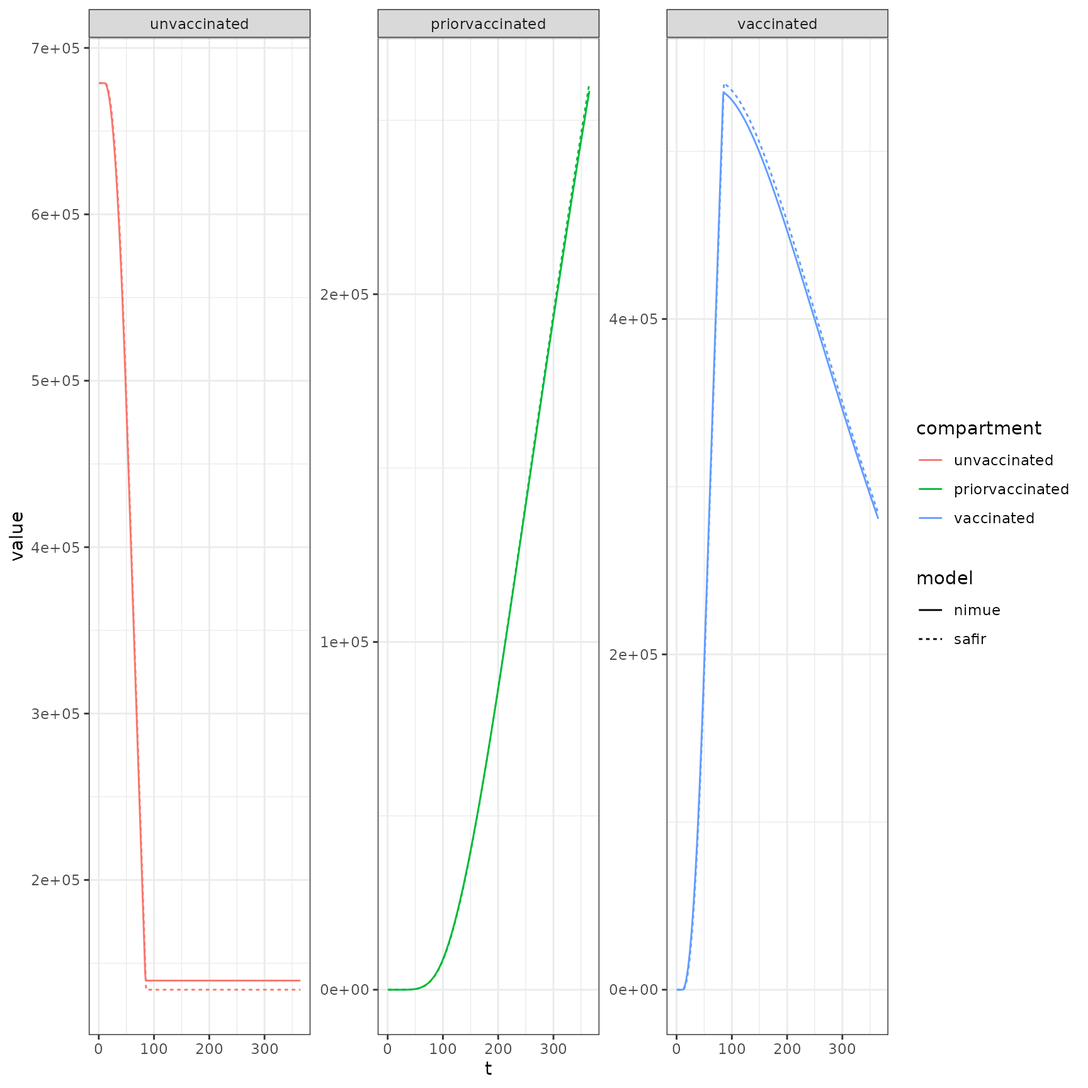
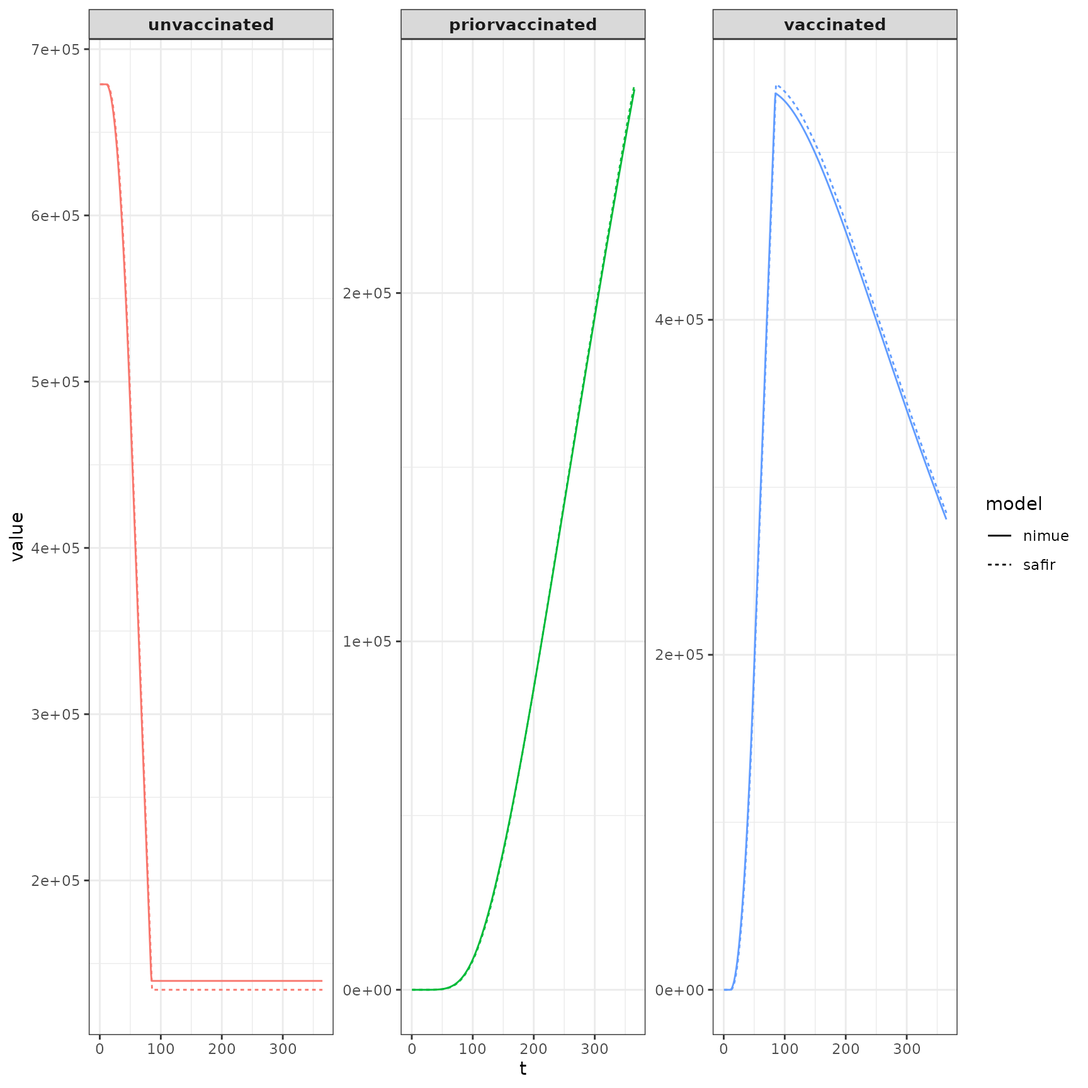
Built site for safir: 0.1.0@

diff --git a/articles/compare_nimue.html b/articles/compare_nimue.html
@@ -91,6 +91,9 @@
 
     
     
+<div id="setup" class="section level2">
+<h2 class="hasAnchor">
+<a href="#setup" class="anchor"></a>Setup</h2>
 <p>Let’s compare <strong>safir</strong> to <strong>nimue</strong>. Set up our parameters for running. We use a time step of 0.1 days.</p>
 <p>Do a run of <strong>nimue</strong> with increasing vaccination.</p>
 <div class="sourceCode" id="cb1"><pre class="downlit sourceCode r">
@@ -104,19 +107,6 @@
 <span class="kw"><a href="https://rdrr.io/r/base/library.html">library</a></span><span class="op">(</span><span class="va"><a href="https://r-datatable.com">data.table</a></span><span class="op">)</span>
 <span class="kw"><a href="https://rdrr.io/r/base/library.html">library</a></span><span class="op">(</span><span class="va">individual</span><span class="op">)</span>
 <span class="kw"><a href="https://rdrr.io/r/base/library.html">library</a></span><span class="op">(</span><span class="va"><a href="https://ggplot2.tidyverse.org">ggplot2</a></span><span class="op">)</span>
-<span class="kw"><a href="https://rdrr.io/r/base/library.html">library</a></span><span class="op">(</span><span class="va"><a href="https://dplyr.tidyverse.org">dplyr</a></span><span class="op">)</span>
-<span class="co">#&gt; </span>
-<span class="co">#&gt; Attaching package: 'dplyr'</span>
-<span class="co">#&gt; The following objects are masked from 'package:data.table':</span>
-<span class="co">#&gt; </span>
-<span class="co">#&gt;     between, first, last</span>
-<span class="co">#&gt; The following objects are masked from 'package:stats':</span>
-<span class="co">#&gt; </span>
-<span class="co">#&gt;     filter, lag</span>
-<span class="co">#&gt; The following objects are masked from 'package:base':</span>
-<span class="co">#&gt; </span>
-<span class="co">#&gt;     intersect, setdiff, setequal, union</span>
-<span class="kw"><a href="https://rdrr.io/r/base/library.html">library</a></span><span class="op">(</span><span class="va">parallel</span><span class="op">)</span>
 
 <span class="va">iso3c</span> <span class="op">&lt;-</span> <span class="st">"GBR"</span>
 <span class="va">pop</span> <span class="op">&lt;-</span> <span class="fu">safir</span><span class="fu">:::</span><span class="fu"><a href="../reference/get_population.html">get_population</a></span><span class="op">(</span><span class="va">iso3c</span><span class="op">)</span>
@@ -137,6 +127,11 @@
   vaccine_efficacy_disease <span class="op">=</span> <span class="fu"><a href="https://rdrr.io/r/base/rep.html">rep</a></span><span class="op">(</span><span class="fl">0</span>, <span class="fl">17</span><span class="op">)</span>,
   vaccine_efficacy_infection <span class="op">=</span> <span class="fu"><a href="https://rdrr.io/r/base/rep.html">rep</a></span><span class="op">(</span><span class="fl">0.9</span>, <span class="fl">17</span><span class="op">)</span>
 <span class="op">)</span></code></pre></div>
+</div>
+<div id="run-safir" class="section level2">
+<h2 class="hasAnchor">
+<a href="#run-safir" class="anchor"></a>Run <strong>safir</strong>
+</h2>
 <p>Do a <strong>safir</strong> run. This takes around 3-4 minutes. That’s too long and I’ll figure out how to speed it up after it’s verified against <strong>nimue</strong>.</p>
 <div class="sourceCode" id="cb2"><pre class="downlit sourceCode r">
 <code class="sourceCode R"><span class="va">dt</span> <span class="op">&lt;-</span> <span class="fl">0.1</span>
@@ -200,7 +195,11 @@
   <span class="op">)</span>
 <span class="op">)</span>
 <span class="co">#&gt;    user  system elapsed </span>
-<span class="co">#&gt; 182.963   0.240 183.215</span></code></pre></div>
+<span class="co">#&gt; 186.771   0.295 187.072</span></code></pre></div>
+</div>
+<div id="plot-vaccinations" class="section level2">
+<h2 class="hasAnchor">
+<a href="#plot-vaccinations" class="anchor"></a>Plot vaccinations</h2>
 <p>Compare vaccinations. These are spot-on.</p>
 <div class="sourceCode" id="cb3"><pre class="downlit sourceCode r">
 <code class="sourceCode R"><span class="co"># extract data - vaxx</span>
@@ -223,17 +222,28 @@
 <code class="sourceCode R"><span class="fu"><a href="https://ggplot2.tidyverse.org/reference/ggplot.html">ggplot</a></span><span class="op">(</span>data <span class="op">=</span> <span class="va">combined_vax_dt</span><span class="op">)</span> <span class="op">+</span>
   <span class="fu"><a href="https://ggplot2.tidyverse.org/reference/geom_path.html">geom_line</a></span><span class="op">(</span><span class="fu"><a href="https://ggplot2.tidyverse.org/reference/aes.html">aes</a></span><span class="op">(</span>x<span class="op">=</span><span class="va">t</span>,y<span class="op">=</span><span class="va">value</span>,color<span class="op">=</span><span class="va">compartment</span>,linetype<span class="op">=</span><span class="va">model</span>,group<span class="op">=</span><span class="va">model</span><span class="op">)</span><span class="op">)</span> <span class="op">+</span>
   <span class="fu"><a href="https://ggplot2.tidyverse.org/reference/facet_wrap.html">facet_wrap</a></span><span class="op">(</span><span class="va">.</span><span class="op">~</span><span class="va">compartment</span>,scales<span class="op">=</span><span class="st">"free_y"</span><span class="op">)</span> <span class="op">+</span>
-  <span class="fu"><a href="https://ggplot2.tidyverse.org/reference/ggtheme.html">theme_bw</a></span><span class="op">(</span><span class="op">)</span></code></pre></div>
+  <span class="fu"><a href="https://ggplot2.tidyverse.org/reference/guides.html">guides</a></span><span class="op">(</span>color <span class="op">=</span> <span class="cn">FALSE</span><span class="op">)</span><span class="op">+</span>
+  <span class="fu"><a href="https://ggplot2.tidyverse.org/reference/ggtheme.html">theme_bw</a></span><span class="op">(</span><span class="op">)</span><span class="op">+</span>
+  <span class="fu"><a href="https://ggplot2.tidyverse.org/reference/theme.html">theme</a></span><span class="op">(</span>strip.text.x <span class="op">=</span> <span class="fu"><a href="https://ggplot2.tidyverse.org/reference/element.html">element_text</a></span><span class="op">(</span>size<span class="op">=</span><span class="fl">10</span>,face <span class="op">=</span> <span class="st">"bold"</span><span class="op">)</span><span class="op">)</span></code></pre></div>
 <p><img src="compare_nimue_files/figure-html/unnamed-chunk-5-1.png" width="864"></p>
+</div>
+<div id="plot-compartments" class="section level2">
+<h2 class="hasAnchor">
+<a href="#plot-compartments" class="anchor"></a>Plot compartments</h2>
 <p>Compare state (compartments) output. It’s slightly off in deaths, for some reason.</p>
 <div class="sourceCode" id="cb5"><pre class="downlit sourceCode r">
 <code class="sourceCode R"><span class="co"># extract data - state</span>
-<span class="va">nimue_compartments</span><span class="op">&lt;-</span> <span class="fu"><a href="https://rdrr.io/r/base/c.html">c</a></span><span class="op">(</span><span class="st">"S"</span>,<span class="st">"E"</span>,<span class="st">"D"</span>,<span class="st">"R"</span>,<span class="st">"IMild"</span>,<span class="st">"ICase"</span>,<span class="st">"IRec"</span><span class="op">)</span>
+<span class="va">safir_compartments</span><span class="op">&lt;-</span> <span class="fu"><a href="https://rdrr.io/r/base/c.html">c</a></span><span class="op">(</span><span class="st">"S"</span>,<span class="st">"E"</span>,<span class="st">"D"</span>,<span class="st">"R"</span>,<span class="st">"IMild"</span>,<span class="st">"ICase"</span>,<span class="st">"IRec"</span>,<span class="st">"IOxGetDie"</span>,<span class="st">"IOxNotGetDie"</span>,<span class="st">"IOxNotGetLive"</span>,<span class="st">"IOxGetLive"</span>,<span class="st">"IMVNotGetDie"</span>,<span class="st">"IMVNotGetLive"</span>,<span class="st">"IMVGetLive"</span>,<span class="st">"IMVGetDie"</span><span class="op">)</span>
+<span class="va">nimue_compartments</span><span class="op">&lt;-</span> <span class="fu"><a href="https://rdrr.io/r/base/c.html">c</a></span><span class="op">(</span><span class="st">"S"</span>,<span class="st">"E"</span>,<span class="st">"D"</span>,<span class="st">"R"</span>,<span class="st">"IMild"</span>,<span class="st">"ICase"</span>,<span class="st">"IRec"</span>,<span class="st">"IICU"</span>,<span class="st">"IHospital"</span><span class="op">)</span>
 
 <span class="va">df</span> <span class="op">&lt;-</span> <span class="va">renderer</span><span class="op">$</span><span class="fu">to_dataframe</span><span class="op">(</span><span class="op">)</span>
 <span class="va">safir_dt</span> <span class="op">&lt;-</span> <span class="fu"><a href="https://Rdatatable.gitlab.io/data.table/reference/as.data.table.html">as.data.table</a></span><span class="op">(</span><span class="va">df</span><span class="op">)</span>
 <span class="va">safir_dt</span><span class="op">[</span>, <span class="va">IMild_count</span> <span class="op">:=</span> <span class="va">IMild_count</span> <span class="op">+</span> <span class="va">IAsymp_count</span><span class="op">]</span>
 <span class="va">safir_dt</span><span class="op">[</span>, <span class="va">IAsymp_count</span> <span class="op">:=</span> <span class="cn">NULL</span><span class="op">]</span>
+<span class="va">safir_dt</span><span class="op">[</span>, <span class="va">IICU_count</span> <span class="op">:=</span> <span class="va">IMVNotGetDie_count</span> <span class="op">+</span> <span class="va">IMVNotGetLive_count</span> <span class="op">+</span> <span class="va">IMVGetLive_count</span> <span class="op">+</span> <span class="va">IMVGetDie_count</span><span class="op">]</span>
+<span class="va">safir_dt</span><span class="op">[</span>, <span class="fu"><a href="https://rdrr.io/r/base/c.html">c</a></span><span class="op">(</span><span class="st">"IMVNotGetDie_count"</span>,<span class="st">"IMVNotGetLive_count"</span>,<span class="st">"IMVGetLive_count"</span>,<span class="st">"IMVGetDie_count"</span><span class="op">)</span> <span class="op">:=</span> <span class="cn">NULL</span><span class="op">]</span>
+<span class="va">safir_dt</span><span class="op">[</span>, <span class="va">IHospital</span> <span class="op">:=</span> <span class="va">IOxGetDie_count</span> <span class="op">+</span> <span class="va">IOxNotGetDie_count</span> <span class="op">+</span> <span class="va">IOxNotGetLive_count</span> <span class="op">+</span> <span class="va">IOxGetLive_count</span><span class="op">]</span>
+<span class="va">safir_dt</span><span class="op">[</span>, <span class="fu"><a href="https://rdrr.io/r/base/c.html">c</a></span><span class="op">(</span><span class="st">"IOxGetDie_count"</span>, <span class="st">"IOxNotGetDie_count"</span>, <span class="st">"IOxNotGetLive_count"</span>, <span class="st">"IOxGetLive_count"</span><span class="op">)</span> <span class="op">:=</span> <span class="cn">NULL</span><span class="op">]</span>
 <span class="va">safir_dt</span> <span class="op">&lt;-</span> <span class="fu"><a href="https://Rdatatable.gitlab.io/data.table/reference/melt.data.table.html">melt</a></span><span class="op">(</span><span class="va">safir_dt</span>,id.vars <span class="op">=</span> <span class="st">"timestep"</span>,variable.name <span class="op">=</span> <span class="st">"compartment"</span>,value.name <span class="op">=</span> <span class="st">"value"</span><span class="op">)</span>
 <span class="va">safir_dt</span><span class="op">[</span>, <span class="va">compartment</span> <span class="op">:=</span> <span class="fu"><a href="https://rdrr.io/r/base/grep.html">gsub</a></span><span class="op">(</span><span class="st">"(^)(\\w*)(_count)"</span>, <span class="st">"\\2"</span>, <span class="va">compartment</span><span class="op">)</span><span class="op">]</span>
 <span class="va">safir_dt</span><span class="op">[</span>, <span class="st">"t"</span> <span class="op">:=</span> <span class="va">timestep</span> <span class="op">*</span> <span class="va">dt</span><span class="op">]</span>
@@ -252,13 +262,23 @@
 <code class="sourceCode R"><span class="fu"><a href="https://ggplot2.tidyverse.org/reference/ggplot.html">ggplot</a></span><span class="op">(</span>data <span class="op">=</span> <span class="va">combined_dt</span><span class="op">)</span> <span class="op">+</span>
   <span class="fu"><a href="https://ggplot2.tidyverse.org/reference/geom_path.html">geom_line</a></span><span class="op">(</span><span class="fu"><a href="https://ggplot2.tidyverse.org/reference/aes.html">aes</a></span><span class="op">(</span>x<span class="op">=</span><span class="va">t</span>,y<span class="op">=</span><span class="va">value</span>,color<span class="op">=</span><span class="va">compartment</span>,group<span class="op">=</span><span class="va">model</span>,linetype<span class="op">=</span><span class="va">model</span><span class="op">)</span><span class="op">)</span> <span class="op">+</span>
   <span class="fu"><a href="https://ggplot2.tidyverse.org/reference/facet_wrap.html">facet_wrap</a></span><span class="op">(</span><span class="va">.</span><span class="op">~</span><span class="va">compartment</span>,scales<span class="op">=</span><span class="st">"free_y"</span><span class="op">)</span><span class="op">+</span>
-  <span class="fu"><a href="https://ggplot2.tidyverse.org/reference/ggtheme.html">theme_bw</a></span><span class="op">(</span><span class="op">)</span></code></pre></div>
+  <span class="fu"><a href="https://ggplot2.tidyverse.org/reference/guides.html">guides</a></span><span class="op">(</span>color <span class="op">=</span> <span class="cn">FALSE</span><span class="op">)</span><span class="op">+</span>
+  <span class="fu"><a href="https://ggplot2.tidyverse.org/reference/ggtheme.html">theme_bw</a></span><span class="op">(</span><span class="op">)</span><span class="op">+</span>
+  <span class="fu"><a href="https://ggplot2.tidyverse.org/reference/theme.html">theme</a></span><span class="op">(</span>strip.text.x <span class="op">=</span> <span class="fu"><a href="https://ggplot2.tidyverse.org/reference/element.html">element_text</a></span><span class="op">(</span>size<span class="op">=</span><span class="fl">10</span>,face <span class="op">=</span> <span class="st">"bold"</span><span class="op">)</span><span class="op">)</span></code></pre></div>
 <p><img src="compare_nimue_files/figure-html/unnamed-chunk-7-1.png" width="864"></p>
+</div>
+<div id="ensemble-plot" class="section level2">
+<h2 class="hasAnchor">
+<a href="#ensemble-plot" class="anchor"></a>Ensemble plot</h2>
+<p><img src="nimue_comparison.png" width="100%"></p>
+</div>
   </div>
 
   <div class="col-md-3 hidden-xs hidden-sm" id="pkgdown-sidebar">
 
-      </div>
+        <nav id="toc" data-toggle="toc"><h2 data-toc-skip>Contents</h2>
+    </nav>
+</div>
 
 </div>
 

diff --git a/articles/CodeDesign.html b/articles/CodeDesign.html
@@ -195,8 +195,8 @@ end</code></pre>
 <a href="#infection-process-infection_process_nimue" class="anchor"></a>Infection process <code>infection_process_nimue</code>
 </h3>
 <p>We’ll go with a function that uses a calculated <code>vr</code> akin to the original <strong>nimue</strong> model but allows vaccination and infection to occur in a single time step. Normally, this would make a model that’s pretty inconsistent with the stochastic interpretation of the deterministic model but I think in this case we got lucky. Here’s why.</p>
-<div id="htmlwidget-50dc877ba802dd97add8" style="width:600px;height:500px;" class="grViz html-widget"></div>
-<script type="application/json" data-for="htmlwidget-50dc877ba802dd97add8">{"x":{"diagram":"digraph {\n\ngraph [layout = \"neato\",\n       outputorder = \"edgesfirst\",\n       bgcolor = \"white\"]\n\nnode [fontname = \"Helvetica\",\n      fontsize = \"10\",\n      shape = \"circle\",\n      fixedsize = \"true\",\n      width = \"0.5\",\n      style = \"filled\",\n      fillcolor = \"aliceblue\",\n      color = \"gray70\",\n      fontcolor = \"gray50\"]\n\nedge [fontname = \"Helvetica\",\n     fontsize = \"8\",\n     len = \"1.5\",\n     color = \"gray80\",\n     arrowsize = \"0.5\"]\n\n  \"1\" [label = <S<FONT POINT-SIZE=\"8\"><SUB>0<\/SUB><\/FONT>>, fillcolor = \"#F0F8FF\", fontcolor = \"#000000\", pos = \"0.5,1!\"] \n  \"2\" [label = <S<FONT POINT-SIZE=\"8\"><SUB>1<\/SUB><\/FONT>>, fillcolor = \"#F0F8FF\", fontcolor = \"#000000\", pos = \"2,1!\"] \n  \"3\" [label = <E1<FONT POINT-SIZE=\"8\"><SUB>0<\/SUB><\/FONT>>, fillcolor = \"#F0F8FF\", fontcolor = \"#000000\", pos = \"0.5,0!\"] \n  \"4\" [label = <E1<FONT POINT-SIZE=\"8\"><SUB>1<\/SUB><\/FONT>>, fillcolor = \"#F0F8FF\", fontcolor = \"#000000\", pos = \"2,0!\"] \n\"1\"->\"2\" [fontsize = \"5\", label = \"vaccination\", label = \"vaccination\"] \n\"3\"->\"4\" [fontsize = \"5\", label = \"vaccination\", label = \"vaccination\"] \n\"1\"->\"3\" [fontsize = \"5\", label = \"infection (v0)\", label = \"infection (v0)\"] \n\"2\"->\"4\" [fontsize = \"5\", label = \"infection (v1)\", label = \"infection (v1)\"] \n\"1\"->\"4\" [fontsize = \"5\", label = \"infection+vaccinated\", style = \"dashed\"] \n}","config":{"engine":"dot","options":null}},"evals":[],"jsHooks":[]}</script><p>Here’s why this wont be a problem in this case. In the determinsitic model over an infintesimal time interval, only the solid line transitions are allowed. If we were interpreting the ODE model as the skeletion of a CTMC model, those would (still) be the only allowed transitions that could occur, were a single event to occur. Let’s consider <strong>safir</strong> to be a discretization of the CTMC we wish we could run. Then, if the rates at which infection or vaccination occured differed depending on the state one was in, allowing two events to happen in one jump would be bad. Why? Because then the probability of the vaccination first, followed by infection in a time step != the probability of infection first, followed by vaccination in a time step. But because we assume vaccination’s protective effect doesn’t kick in until states V3,V4, the infection and the vaccination lines occur at the same rate. So order doesn’t matter. It’s still not going to make sense as <span class="math inline">\(\Delta t \to 0\)</span> but it will be a pretty good approximation.</p>
+<div id="htmlwidget-609a66d95c437b0f4c85" style="width:600px;height:500px;" class="grViz html-widget"></div>
+<script type="application/json" data-for="htmlwidget-609a66d95c437b0f4c85">{"x":{"diagram":"digraph {\n\ngraph [layout = \"neato\",\n       outputorder = \"edgesfirst\",\n       bgcolor = \"white\"]\n\nnode [fontname = \"Helvetica\",\n      fontsize = \"10\",\n      shape = \"circle\",\n      fixedsize = \"true\",\n      width = \"0.5\",\n      style = \"filled\",\n      fillcolor = \"aliceblue\",\n      color = \"gray70\",\n      fontcolor = \"gray50\"]\n\nedge [fontname = \"Helvetica\",\n     fontsize = \"8\",\n     len = \"1.5\",\n     color = \"gray80\",\n     arrowsize = \"0.5\"]\n\n  \"1\" [label = <S<FONT POINT-SIZE=\"8\"><SUB>0<\/SUB><\/FONT>>, fillcolor = \"#F0F8FF\", fontcolor = \"#000000\", pos = \"0.5,1!\"] \n  \"2\" [label = <S<FONT POINT-SIZE=\"8\"><SUB>1<\/SUB><\/FONT>>, fillcolor = \"#F0F8FF\", fontcolor = \"#000000\", pos = \"2,1!\"] \n  \"3\" [label = <E1<FONT POINT-SIZE=\"8\"><SUB>0<\/SUB><\/FONT>>, fillcolor = \"#F0F8FF\", fontcolor = \"#000000\", pos = \"0.5,0!\"] \n  \"4\" [label = <E1<FONT POINT-SIZE=\"8\"><SUB>1<\/SUB><\/FONT>>, fillcolor = \"#F0F8FF\", fontcolor = \"#000000\", pos = \"2,0!\"] \n\"1\"->\"2\" [fontsize = \"5\", label = \"vaccination\", label = \"vaccination\"] \n\"3\"->\"4\" [fontsize = \"5\", label = \"vaccination\", label = \"vaccination\"] \n\"1\"->\"3\" [fontsize = \"5\", label = \"infection (v0)\", label = \"infection (v0)\"] \n\"2\"->\"4\" [fontsize = \"5\", label = \"infection (v1)\", label = \"infection (v1)\"] \n\"1\"->\"4\" [fontsize = \"5\", label = \"infection+vaccinated\", style = \"dashed\"] \n}","config":{"engine":"dot","options":null}},"evals":[],"jsHooks":[]}</script><p>Here’s why this wont be a problem in this case. In the determinsitic model over an infintesimal time interval, only the solid line transitions are allowed. If we were interpreting the ODE model as the skeletion of a CTMC model, those would (still) be the only allowed transitions that could occur, were a single event to occur. Let’s consider <strong>safir</strong> to be a discretization of the CTMC we wish we could run. Then, if the rates at which infection or vaccination occured differed depending on the state one was in, allowing two events to happen in one jump would be bad. Why? Because then the probability of the vaccination first, followed by infection in a time step != the probability of infection first, followed by vaccination in a time step. But because we assume vaccination’s protective effect doesn’t kick in until states V3,V4, the infection and the vaccination lines occur at the same rate. So order doesn’t matter. It’s still not going to make sense as <span class="math inline">\(\Delta t \to 0\)</span> but it will be a pretty good approximation.</p>
 </div>
 <div id="what-needs-to-be-done" class="section level3">
 <h3 class="hasAnchor">
@@ -209,8 +209,8 @@ end</code></pre>
 <code class="sourceCode R">  <span class="va">events</span><span class="op">$</span><span class="va">v0_to_v1v2</span> <span class="op">=</span> <span class="fu">individual</span><span class="fu">::</span><span class="va"><a href="https://rdrr.io/pkg/individual/man/TargetedEvent.html">TargetedEvent</a></span><span class="op">$</span><span class="fu">new</span><span class="op">(</span><span class="va">N</span><span class="op">)</span> <span class="co"># scheduled when vaccination occurs</span>
   <span class="va">events</span><span class="op">$</span><span class="va">v1v2_to_v3v4</span> <span class="op">=</span> <span class="fu">individual</span><span class="fu">::</span><span class="va"><a href="https://rdrr.io/pkg/individual/man/TargetedEvent.html">TargetedEvent</a></span><span class="op">$</span><span class="fu">new</span><span class="op">(</span><span class="va">N</span><span class="op">)</span> <span class="co"># scheduled when entering v1v2</span>
   <span class="va">events</span><span class="op">$</span><span class="va">v3v4_to_v5</span> <span class="op">=</span> <span class="fu">individual</span><span class="fu">::</span><span class="va"><a href="https://rdrr.io/pkg/individual/man/TargetedEvent.html">TargetedEvent</a></span><span class="op">$</span><span class="fu">new</span><span class="op">(</span><span class="va">N</span><span class="op">)</span> <span class="co"># scheduled when entering v3v4</span></code></pre></div>
-<div id="htmlwidget-19868f0284b6f0f5ecbd" style="width:600px;height:500px;" class="grViz html-widget"></div>
-<script type="application/json" data-for="htmlwidget-19868f0284b6f0f5ecbd">{"x":{"diagram":"digraph {\n\ngraph [layout = \"neato\",\n       outputorder = \"edgesfirst\",\n       bgcolor = \"white\"]\n\nnode [fontname = \"Helvetica\",\n      fontsize = \"10\",\n      shape = \"circle\",\n      fixedsize = \"true\",\n      width = \"0.5\",\n      style = \"filled\",\n      fillcolor = \"aliceblue\",\n      color = \"gray70\",\n      fontcolor = \"gray50\"]\n\nedge [fontname = \"Helvetica\",\n     fontsize = \"8\",\n     len = \"1.5\",\n     color = \"gray80\",\n     arrowsize = \"0.5\"]\n\n  \"1\" [label = \"V0\", fillcolor = \"#F0F8FF\", fontcolor = \"#000000\", pos = \"1,4!\"] \n  \"2\" [label = \"V1,V2\", fillcolor = \"#F0F8FF\", fontcolor = \"#000000\", pos = \"1,3!\"] \n  \"3\" [label = \"V3,V4\", fillcolor = \"#F0F8FF\", fontcolor = \"#000000\", pos = \"1,2!\"] \n  \"4\" [label = \"V5\", fillcolor = \"#F0F8FF\", fontcolor = \"#000000\", pos = \"1,1!\"] \n\"1\"->\"2\" [label = \"occurs at (S,E,R) vaccination\"] \n\"2\"->\"3\" [label = \"event scheduled (gamma_vaccine_delay)\"] \n\"3\"->\"4\" [label = \"event scheduled (gamma_V)\"] \n}","config":{"engine":"dot","options":null}},"evals":[],"jsHooks":[]}</script>
+<div id="htmlwidget-d145c778f39c3a430f07" style="width:600px;height:500px;" class="grViz html-widget"></div>
+<script type="application/json" data-for="htmlwidget-d145c778f39c3a430f07">{"x":{"diagram":"digraph {\n\ngraph [layout = \"neato\",\n       outputorder = \"edgesfirst\",\n       bgcolor = \"white\"]\n\nnode [fontname = \"Helvetica\",\n      fontsize = \"10\",\n      shape = \"circle\",\n      fixedsize = \"true\",\n      width = \"0.5\",\n      style = \"filled\",\n      fillcolor = \"aliceblue\",\n      color = \"gray70\",\n      fontcolor = \"gray50\"]\n\nedge [fontname = \"Helvetica\",\n     fontsize = \"8\",\n     len = \"1.5\",\n     color = \"gray80\",\n     arrowsize = \"0.5\"]\n\n  \"1\" [label = \"V0\", fillcolor = \"#F0F8FF\", fontcolor = \"#000000\", pos = \"1,4!\"] \n  \"2\" [label = \"V1,V2\", fillcolor = \"#F0F8FF\", fontcolor = \"#000000\", pos = \"1,3!\"] \n  \"3\" [label = \"V3,V4\", fillcolor = \"#F0F8FF\", fontcolor = \"#000000\", pos = \"1,2!\"] \n  \"4\" [label = \"V5\", fillcolor = \"#F0F8FF\", fontcolor = \"#000000\", pos = \"1,1!\"] \n\"1\"->\"2\" [label = \"occurs at (S,E,R) vaccination\"] \n\"2\"->\"3\" [label = \"event scheduled (gamma_vaccine_delay)\"] \n\"3\"->\"4\" [label = \"event scheduled (gamma_V)\"] \n}","config":{"engine":"dot","options":null}},"evals":[],"jsHooks":[]}</script>
 </div>
 <div id="data-structures" class="section level3">
 <h3 class="hasAnchor">

diff --git a/articles/compare_squire.html b/articles/compare_squire.html
@@ -91,6 +91,9 @@
 
     
     
+<div id="setup" class="section level2">
+<h2 class="hasAnchor">
+<a href="#setup" class="anchor"></a>Setup</h2>
 <p>Let’s compare <strong>safir</strong> to <strong>squire</strong>. Set up our parameters for running. We use a time step of 0.1 days.</p>
 <div class="sourceCode" id="cb1"><pre class="downlit sourceCode r">
 <code class="sourceCode R"><span class="kw"><a href="https://rdrr.io/r/base/library.html">library</a></span><span class="op">(</span><span class="va">safir</span><span class="op">)</span>
@@ -133,6 +136,11 @@
   R0 <span class="op">=</span> <span class="fl">2</span>,
   dt <span class="op">=</span> <span class="va">dt</span>
 <span class="op">)</span></code></pre></div>
+</div>
+<div id="run-safir" class="section level2">
+<h2 class="hasAnchor">
+<a href="#run-safir" class="anchor"></a>Run <strong>safir</strong>
+</h2>
 <p>Now we can run safir in parallel. Note that the timesteps is the maximum day divided by the size of the step, <code>dt</code>.</p>
 <div class="sourceCode" id="cb3"><pre class="downlit sourceCode r">
 <code class="sourceCode R"><span class="fu"><a href="https://rdrr.io/r/base/system.time.html">system.time</a></span><span class="op">(</span>
@@ -161,7 +169,7 @@
   <span class="op">}</span><span class="op">)</span>
 <span class="op">)</span>
 <span class="co">#&gt;    user  system elapsed </span>
-<span class="co">#&gt;  12.150   0.058  12.293</span></code></pre></div>
+<span class="co">#&gt;  11.772   0.063  12.191</span></code></pre></div>
 <p>Let’s organize our data for plotting. We’ll compare the 2.5th and 97.5th quantiles and median.</p>
 <div class="sourceCode" id="cb4"><pre class="downlit sourceCode r">
 <code class="sourceCode R"><span class="va">saf_reps</span> <span class="op">&lt;-</span> <span class="fu"><a href="https://rdrr.io/r/base/do.call.html">do.call</a></span><span class="op">(</span><span class="va">rbind</span>,<span class="va">saf_reps</span><span class="op">)</span>
@@ -180,6 +188,7 @@
 <span class="va">sq_dt</span> <span class="op">&lt;-</span> <span class="fu"><a href="https://Rdatatable.gitlab.io/data.table/reference/as.data.table.html">as.data.table</a></span><span class="op">(</span><span class="fu">squire</span><span class="fu">::</span><span class="fu"><a href="https://rdrr.io/pkg/squire/man/format_output.html">format_output</a></span><span class="op">(</span><span class="va">out</span>, <span class="fu"><a href="https://Rdatatable.gitlab.io/data.table/reference/duplicated.html">unique</a></span><span class="op">(</span><span class="va">saf_dt</span><span class="op">$</span><span class="va">compartment</span><span class="op">)</span><span class="op">)</span><span class="op">)</span>
 <span class="va">sq_dt</span><span class="op">[</span>, <span class="va">model</span> <span class="op">:=</span> <span class="st">"squire"</span><span class="op">]</span>
 <span class="va">sq_dt</span> <span class="op">&lt;-</span> <span class="va">sq_dt</span><span class="op">[</span>, <span class="fu">.</span><span class="op">(</span>ymin <span class="op">=</span> <span class="fu"><a href="https://rdrr.io/r/stats/quantile.html">quantile</a></span><span class="op">(</span><span class="va">y</span>,<span class="fl">0.025</span><span class="op">)</span>, ymax <span class="op">=</span> <span class="fu"><a href="https://rdrr.io/r/stats/quantile.html">quantile</a></span><span class="op">(</span><span class="va">y</span>,<span class="fl">0.975</span><span class="op">)</span>, y <span class="op">=</span> <span class="fu"><a href="https://rdrr.io/r/stats/median.html">median</a></span><span class="op">(</span><span class="va">y</span><span class="op">)</span><span class="op">)</span>, by <span class="op">=</span> <span class="fu">.</span><span class="op">(</span><span class="va">t</span>,<span class="va">compartment</span>,<span class="va">model</span><span class="op">)</span><span class="op">]</span></code></pre></div>
+</div>
 <div id="plot-results" class="section level2">
 <h2 class="hasAnchor">
 <a href="#plot-results" class="anchor"></a>Plot Results</h2>

diff --git a/index.html b/index.html
@@ -83,7 +83,8 @@
   <div class="contents col-md-9">
 <div id="safir" class="section level1">
 <div class="page-header"><h1 class="hasAnchor">
-<a href="#safir" class="anchor"></a>safir</h1></div>
+<a href="#safir" class="anchor"></a><strong>safir</strong>
+</h1></div>
 <!-- badges: start -->
 
 <p><strong>safir</strong>: <strong>s</strong>quire <strong>a</strong>nd <strong>f</strong>riends <strong>i</strong>ndividual <strong>r</strong>ewrite (and maintains the squire naming <a href="https://en.wikipedia.org/wiki/Knights_of_the_Round_Table#Safir">theme</a>).</p>
@@ -102,13 +103,13 @@
 <p>This includes the following vignettes:</p>
 <ul>
 <li>
-<strong><code>Squire Validation Run</code></strong>: comparison of <code>{safir}</code> to <a href="https://github.com/mrc-ide/squire"><code>{squire}</code></a>
+<strong><code>Squire Validation Run</code></strong>: comparison of <a href="https://github.com/mrc-ide/safir"><code>{safir}</code></a> to <a href="https://github.com/mrc-ide/squire"><code>{squire}</code></a>
 </li>
 <li>
-<strong><code>Nimue Validation Run</code></strong>: comparison of <code>{safir}</code> to <a href="https://github.com/mrc-ide/nimue"><code>{nimue}</code></a>
+<strong><code>Nimue Validation Run</code></strong>: comparison of <a href="https://github.com/mrc-ide/safir"><code>{safir}</code></a> to <a href="https://github.com/mrc-ide/nimue"><code>{nimue}</code></a>
 </li>
 <li>
-<strong><code>Code Design</code></strong>: a diary of ideas, notes, etc. as <code>{safir}</code> is developed.</li>
+<strong><code>Code Design</code></strong>: a diary of ideas, notes, etc. as <a href="https://github.com/mrc-ide/safir"><code>{safir}</code></a> is developed.</li>
 <li>
 <strong><code>Parameters</code></strong>: how parameters from the compartmental models are translated to the individual based model. Not written yet.</li>
 </ul>
